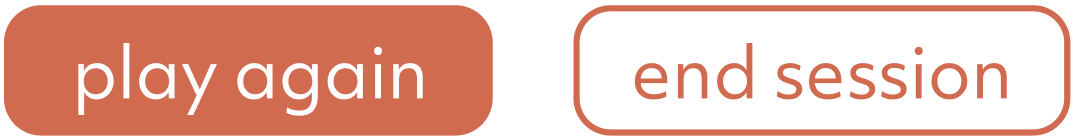
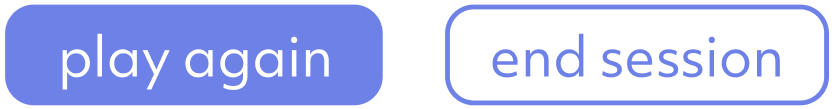
Updated game tutorial screens to reflect newest designs

diff --git a/frontend/src/screens/GameTutorial/GameTutorialScreens.tsx b/frontend/src/screens/GameTutorial/GameTutorialScreens.tsx
@@ -9,10 +9,10 @@ const tutorialImages = {
 	page1: require('../../assets/tutorial-page-1.png'),
 	page2: require('../../assets/tutorial-page-2.png'),
 	page3: require('../../assets/tutorial-page-3.png'),
-    page5Pairing: require('../../assets/pairing-tutorial-page-5.png'),
-    page5Selecting: require('../../assets/selecting-tutorial-page-5.png'),
-    page6: require('../../assets/tutorial-page-6.png'),
-    page7: require('../../assets/tutorial-page-7.png')
+  page5Pairing: require('../../assets/pairing-tutorial-page-5.png'),
+  page5Selecting: require('../../assets/selecting-tutorial-page-5.png'),
+  page6: require('../../assets/tutorial-page-6.png'),
+  page7: require('../../assets/tutorial-page-7.png')
 };
 
 interface GameTutorialScreenProps {
@@ -114,13 +114,19 @@ export default function GameTutorialScreens({
                 onFinish={onFinish}/>
             <GameTutorialScreen
                 screenContent={
+                    isPairing ? 
                     "Once you have matched all the words, press done to " +
+                    "submit your answers." :
+                    "Once you have matched the word, press done to " +
                     "submit your answers."}
                 doneButton={true}
                 onFinish={onFinish}/>
             <GameTutorialScreen
                 screenContent={
+                    isPairing ?
                     "Once you've submitted your answers, the game will " +
+                    "give you your results.\n" :
+                    "Once you've submitted your answer, the game will " +
                     "give you your results.\n"}
                 secondaryScreenContent={isPairing ? 
                     "Green means correct and red means incorrect." :
@@ -130,9 +136,10 @@ export default function GameTutorialScreens({
                 onFinish={onFinish}/>
             <GameTutorialScreen
                 screenContent={
-                    "When you've pressed next, the correct answers " +
-                    "to the turkish word you matched incorrectly will " +
-                    "be outlined in green."}
+                    "When you've pressed next, the Turkish word that you've " +
+                    "matched incorrectly will be matched with the correct English " +
+                    "word and highlighted in dark green. The light green highlighted " +
+                    "words are the ones you got correct before."}
                 imagePath={tutorialImages.page6}
                 onFinish={onFinish}/>
             <GameTutorialScreen

diff --git a/frontend/src/screens/GameTutorial/GameTutorialScreen.tsx b/frontend/src/screens/GameTutorial/GameTutorialScreen.tsx
@@ -1,7 +1,7 @@
 import React, { ReactElement, useCallback } from 'react';
 import { Image, StyleSheet, View, Text, Pressable } from 'react-native';
 import { useNavigation } from "@react-navigation/core";
-import { ORANGE, LIGHTPURPLE } from '../../constants/colors';
+import { LIGHTPURPLE } from '../../constants/colors';
 import FirebaseInteractor from "../../firebase/firebaseInteractor";
 
 const fi = new FirebaseInteractor();
@@ -103,7 +103,7 @@ const styles = StyleSheet.create({
         flex: 1,
         alignItems: 'center',
         justifyContent: 'center',
-        backgroundColor: ORANGE,
+        backgroundColor: LIGHTPURPLE,
         width: "38%",
         maxHeight: "6%",
         marginTop: "7%",
@@ -111,7 +111,7 @@ const styles = StyleSheet.create({
         overflow: 'hidden'
     },
     buttonContent: {
-        backgroundColor: ORANGE,
+        backgroundColor: LIGHTPURPLE,
         fontFamily: 'Futura',
         fontSize: 20,
         color: '#FFF',
